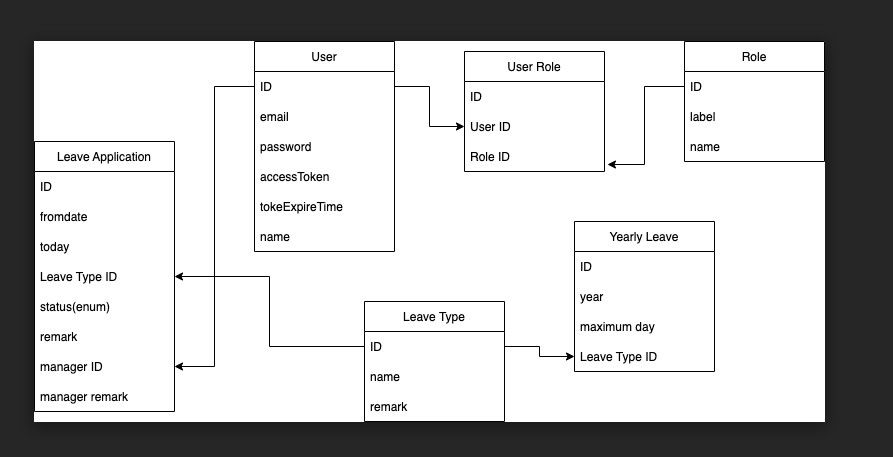
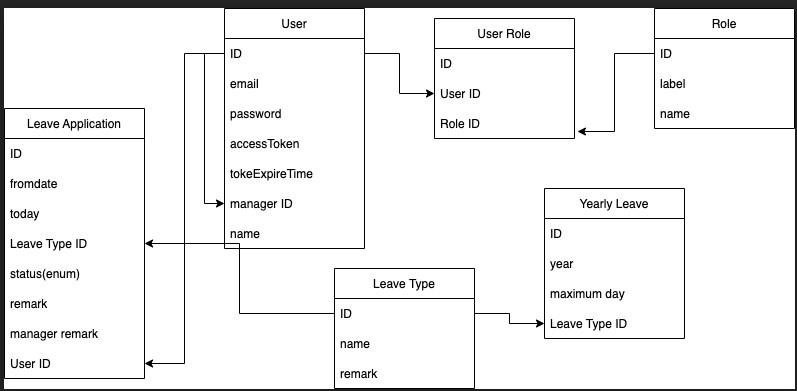
Added Database configuration, created some entities

diff --git a/src/main/java/com/example/leaveapplicationnew/entity/LeaveApplication.java b/src/main/java/com/example/leaveapplicationnew/entity/LeaveApplication.java
@@ -1,0 +1,48 @@
+package com.example.leaveapplicationnew.entity;
+
+
+import com.fasterxml.jackson.annotation.JsonFormat;
+import lombok.*;
+
+import javax.persistence.*;
+import java.sql.Date;
+
+@Getter
+@Setter
+@NoArgsConstructor
+@AllArgsConstructor
+@ToString
+@Entity
+@Table(name = "leave_application")
+public class LeaveApplication {
+    @Id
+    @SequenceGenerator(
+            name = "leaveApplication_sequence",
+            sequenceName = "leaveApplication_sequence",
+            allocationSize = 1
+    )
+    @GeneratedValue(
+            strategy = GenerationType.SEQUENCE,
+            generator = "leaveApplication_sequence"
+    )
+    @Column(name = "id")
+    private Long leaveApplicationId;
+
+    @JsonFormat(pattern = "dd-MM-yyyy" , shape = JsonFormat.Shape.STRING)
+    @Column(name = "from_date")
+    private Date fromDate;
+
+    @JsonFormat(pattern = "dd-MM-yyyy" , shape = JsonFormat.Shape.STRING)
+    @Column(name = "to_date")
+    private Date toDate;
+
+    @Enumerated(EnumType.STRING)
+    private Status status;
+
+    private String remark;
+    private String managerRemark;
+
+
+    // TODO: user_id foreign key
+
+}

diff --git a/src/main/java/com/example/leaveapplicationnew/entity/YearlyLeave.java b/src/main/java/com/example/leaveapplicationnew/entity/YearlyLeave.java
@@ -1,0 +1,36 @@
+package com.example.leaveapplicationnew.entity;
+
+
+import lombok.*;
+
+import javax.persistence.*;
+import java.time.Year;
+
+
+@Getter @Setter @NoArgsConstructor @AllArgsConstructor @ToString
+
+@Entity
+@Table(name = "yearly_leave")
+public class YearlyLeave {
+    @Id
+    @SequenceGenerator(
+            name = "yearlyLeave_sequence",
+            sequenceName = "yearlyLeave_sequence",
+            allocationSize = 1
+    )
+    @GeneratedValue(
+            strategy = GenerationType.SEQUENCE,
+            generator = "yearlyLeave_sequence"
+    )
+    @Column(name = "id")
+    private Long yearlyLeaveId;
+    private Year year;
+    private int maximumDay;
+
+    @ManyToOne(cascade = CascadeType.ALL)
+    @JoinColumn(
+            name = "leave_type_id",
+            referencedColumnName = "id"
+    )
+    private LeaveType leaveType;
+}

diff --git a/src/main/java/com/example/leaveapplicationnew/entity/LeaveType.java b/src/main/java/com/example/leaveapplicationnew/entity/LeaveType.java
@@ -1,0 +1,26 @@
+package com.example.leaveapplicationnew.entity;
+
+import lombok.*;
+
+import javax.persistence.*;
+
+
+@Getter @Setter @NoArgsConstructor @AllArgsConstructor @ToString
+@Entity
+@Table(name = "leave_type")
+public class LeaveType {
+    @Id
+    @SequenceGenerator(
+            name = "leaveType_sequence",
+            sequenceName = "leaveType_sequence",
+            allocationSize = 1
+    )
+    @GeneratedValue(
+            strategy = GenerationType.SEQUENCE,
+            generator = "leaveType_sequence"
+    )
+    @Column(name = "id")
+    private Long leaveTypeId;
+    private String name;
+    private String remark;
+}

diff --git a/src/main/java/com/example/leaveapplicationnew/entity/Status.java b/src/main/java/com/example/leaveapplicationnew/entity/Status.java
@@ -1,0 +1,6 @@
+package com.example.leaveapplicationnew.entity;
+
+// Note: this enum is persisted in Database as EnumType.STRING, modification of existing elements will cause issues.
+public enum Status {
+    APPROVED, PENDING, REJECTED
+}
